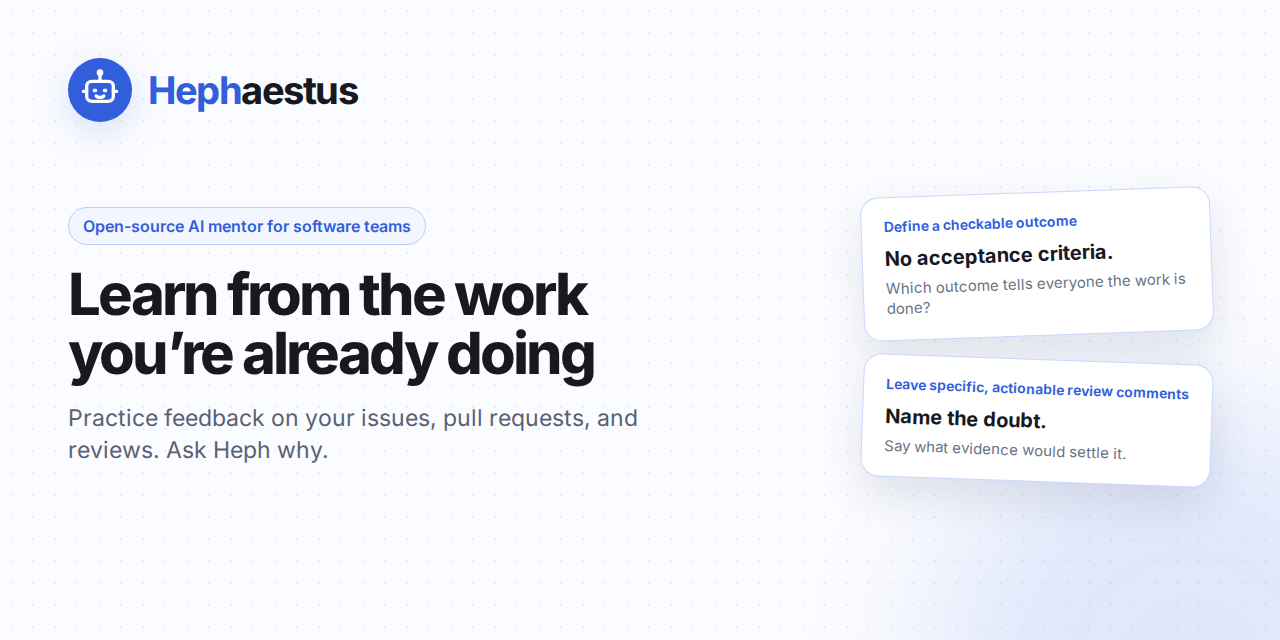
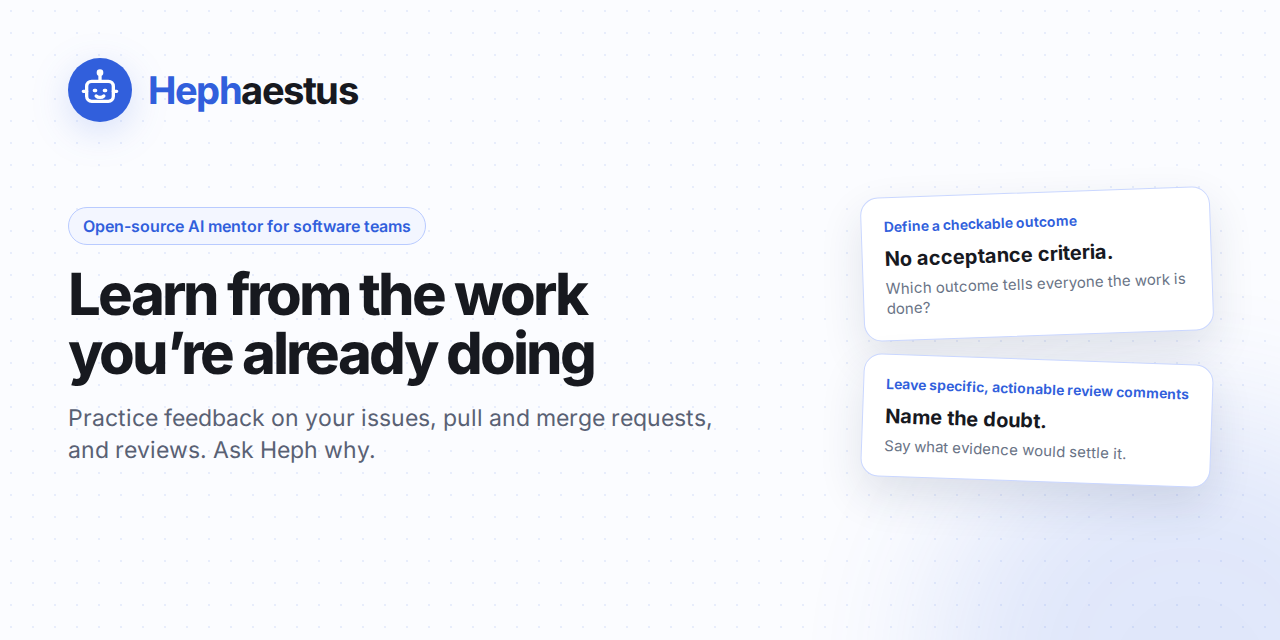
fix(webapp): link previews use a shorter description and the card names merge requests

Changed region(s): [[0.375, 0.625, 0.5625, 0.6875], [0.0312, 0.6875, 0.3125, 0.7188]]

diff --git a/webapp/scripts/export-assets.ts b/webapp/scripts/export-assets.ts
@@ -182,7 +182,7 @@ async function render(): Promise<void> {
 			): Promise<void> => {
 				await page.setViewportSize({ width, height });
 				await page.setContent(
-					`<style>${FONT_FACE}*{box-sizing:border-box}html,body{margin:0;width:100%;height:100%;font-family:Inter,sans-serif;background:#fbfcff;color:#17191f}.card{position:relative;isolation:isolate;height:100%;padding:58px 68px;overflow:hidden;background-image:radial-gradient(#315fdc18 1.2px,transparent 1.2px);background-size:22px 22px}.card::before{content:"";position:absolute;z-index:-1;width:520px;height:520px;right:-170px;bottom:-290px;border-radius:50%;background:#315fdc;opacity:.13;filter:blur(72px)}.brand{display:flex;align-items:center;gap:16px}.mark{width:64px;height:64px;flex:none;filter:drop-shadow(0 10px 18px rgb(49 95 220/.18))}.name{font-size:38px;font-weight:720;letter-spacing:-1.5px}.heph{color:${SIGNAL_BLUE}}.layout{display:grid;grid-template-columns:minmax(0,1fr) 350px;align-items:center;gap:64px;height:430px}.eyebrow{display:inline-flex;border:1px solid #b9cbff;border-radius:999px;padding:8px 14px;font-size:16px;font-weight:600;color:#315fdc;background:#f3f6ff}.headline{margin:20px 0 18px;font-size:58px;font-weight:760;letter-spacing:-3px;line-height:1.02}.tagline{max-width:650px;font-size:23px;line-height:1.42;color:#596174}.cards{display:grid;gap:24px}.feedback{border:1px solid #cad7ff;border-radius:18px;padding:20px 22px;background:#fff;box-shadow:0 18px 44px rgb(32 46 80/.12)}.feedback:first-child{transform:rotate(-2deg)}.feedback:last-child{transform:rotate(2deg)}.practice{font-size:14px;font-weight:650;color:#315fdc}.finding{margin-top:12px;font-size:20px;font-weight:700;line-height:1.25}.detail{margin-top:7px;font-size:15px;line-height:1.35;color:#697386}</style><main class="card"><div class="brand"><div class="mark">${markSvg}</div><div class="name"><span class="heph">Heph</span>aestus</div></div><div class="layout"><section><div class="eyebrow">Open-source AI mentor for software teams</div><h1 class="headline">Learn from the work<br>you’re already doing</h1><div class="tagline">Practice feedback on your issues, pull requests, and reviews. Ask Heph why.</div></section><aside class="cards"><div class="feedback"><div class="practice">Define a checkable outcome</div><div class="finding">No acceptance criteria.</div><div class="detail">Which outcome tells everyone the work is done?</div></div><div class="feedback"><div class="practice">Leave specific, actionable review comments</div><div class="finding">Name the doubt.</div><div class="detail">Say what evidence would settle it.</div></div></aside></div></main>`,
+					`<style>${FONT_FACE}*{box-sizing:border-box}html,body{margin:0;width:100%;height:100%;font-family:Inter,sans-serif;background:#fbfcff;color:#17191f}.card{position:relative;isolation:isolate;height:100%;padding:58px 68px;overflow:hidden;background-image:radial-gradient(#315fdc18 1.2px,transparent 1.2px);background-size:22px 22px}.card::before{content:"";position:absolute;z-index:-1;width:520px;height:520px;right:-170px;bottom:-290px;border-radius:50%;background:#315fdc;opacity:.13;filter:blur(72px)}.brand{display:flex;align-items:center;gap:16px}.mark{width:64px;height:64px;flex:none;filter:drop-shadow(0 10px 18px rgb(49 95 220/.18))}.name{font-size:38px;font-weight:720;letter-spacing:-1.5px}.heph{color:${SIGNAL_BLUE}}.layout{display:grid;grid-template-columns:minmax(0,1fr) 350px;align-items:center;gap:64px;height:430px}.eyebrow{display:inline-flex;border:1px solid #b9cbff;border-radius:999px;padding:8px 14px;font-size:16px;font-weight:600;color:#315fdc;background:#f3f6ff}.headline{margin:20px 0 18px;font-size:58px;font-weight:760;letter-spacing:-3px;line-height:1.02}.tagline{max-width:650px;font-size:23px;line-height:1.42;color:#596174}.cards{display:grid;gap:24px}.feedback{border:1px solid #cad7ff;border-radius:18px;padding:20px 22px;background:#fff;box-shadow:0 18px 44px rgb(32 46 80/.12)}.feedback:first-child{transform:rotate(-2deg)}.feedback:last-child{transform:rotate(2deg)}.practice{font-size:14px;font-weight:650;color:#315fdc}.finding{margin-top:12px;font-size:20px;font-weight:700;line-height:1.25}.detail{margin-top:7px;font-size:15px;line-height:1.35;color:#697386}</style><main class="card"><div class="brand"><div class="mark">${markSvg}</div><div class="name"><span class="heph">Heph</span>aestus</div></div><div class="layout"><section><div class="eyebrow">Open-source AI mentor for software teams</div><h1 class="headline">Learn from the work<br>you’re already doing</h1><div class="tagline">Practice feedback on your issues, pull and merge requests, and reviews. Ask Heph why.</div></section><aside class="cards"><div class="feedback"><div class="practice">Define a checkable outcome</div><div class="finding">No acceptance criteria.</div><div class="detail">Which outcome tells everyone the work is done?</div></div><div class="feedback"><div class="practice">Leave specific, actionable review comments</div><div class="finding">Name the doubt.</div><div class="detail">Say what evidence would settle it.</div></div></aside></div></main>`,
 				);
 				await page.evaluate(async () => document.fonts.ready);
 				await page.screenshot({ path: await output(target) });

diff --git a/webapp/index.html b/webapp/index.html
@@ -14,12 +14,12 @@
     <meta name="theme-color" content="#315FDC" />
     <meta
       name="description"
-      content="Hephaestus is an open-source AI mentor for software teams. It checks the issues, pull and merge requests, and reviews that your team already writes against the engineering practices that your workspace adopts. Each developer gets feedback with evidence and, where something needs attention, a next step."
+      content="Hephaestus is an open-source AI mentor for software teams. It checks the issues, pull and merge requests, and reviews that your team already writes against the engineering practices that your workspace adopts."
     />
     <meta property="og:title" content="Hephaestus" />
     <meta
       property="og:description"
-      content="Hephaestus is an open-source AI mentor for software teams. It checks the issues, pull and merge requests, and reviews that your team already writes against the engineering practices that your workspace adopts. Each developer gets feedback with evidence and, where something needs attention, a next step."
+      content="Hephaestus is an open-source AI mentor for software teams. It checks the issues, pull and merge requests, and reviews that your team already writes against the engineering practices that your workspace adopts."
     />
     <meta property="og:type" content="website" />
     <meta property="og:image" content="/hephaestus-social-card.png" />
@@ -31,7 +31,7 @@
     <meta name="twitter:title" content="Hephaestus" />
     <meta
       name="twitter:description"
-      content="Hephaestus is an open-source AI mentor for software teams. It checks the issues, pull and merge requests, and reviews that your team already writes against the engineering practices that your workspace adopts. Each developer gets feedback with evidence and, where something needs attention, a next step."
+      content="Hephaestus is an open-source AI mentor for software teams. It checks the issues, pull and merge requests, and reviews that your team already writes against the engineering practices that your workspace adopts."
     />
     <meta name="twitter:image" content="/hephaestus-social-card.png" />
     <meta name="twitter:image:alt" content="Hephaestus: Learn from the work you’re already doing" />

diff --git a/docs/docusaurus.config.ts b/docs/docusaurus.config.ts
@@ -14,7 +14,7 @@ const envBaseUrl = process.env.DOCUSAURUS_BASE_URL;
 const baseUrl = envBaseUrl === undefined || envBaseUrl === "" ? "/" : envBaseUrl;
 
 const DESCRIPTION =
-	"Hephaestus is an open-source AI mentor for software teams. It checks the issues, pull and merge requests, and reviews that your team already writes against the engineering practices that your workspace adopts. Each developer gets feedback with evidence and, where something needs attention, a next step.";
+	"Hephaestus is an open-source AI mentor for software teams. It checks the issues, pull and merge requests, and reviews that your team already writes against the engineering practices that your workspace adopts.";
 
 function rawMermaidSourcePlugin(_context: LoadContext): Plugin {
 	return {

diff --git a/.changeset/link-preview-short-description.md b/.changeset/link-preview-short-description.md
@@ -1,0 +1,5 @@
+---
+"hephaestus": patch
+---
+
+When you share a link to Hephaestus or its documentation, the preview shows a shorter description. The preview image now names merge requests too.
